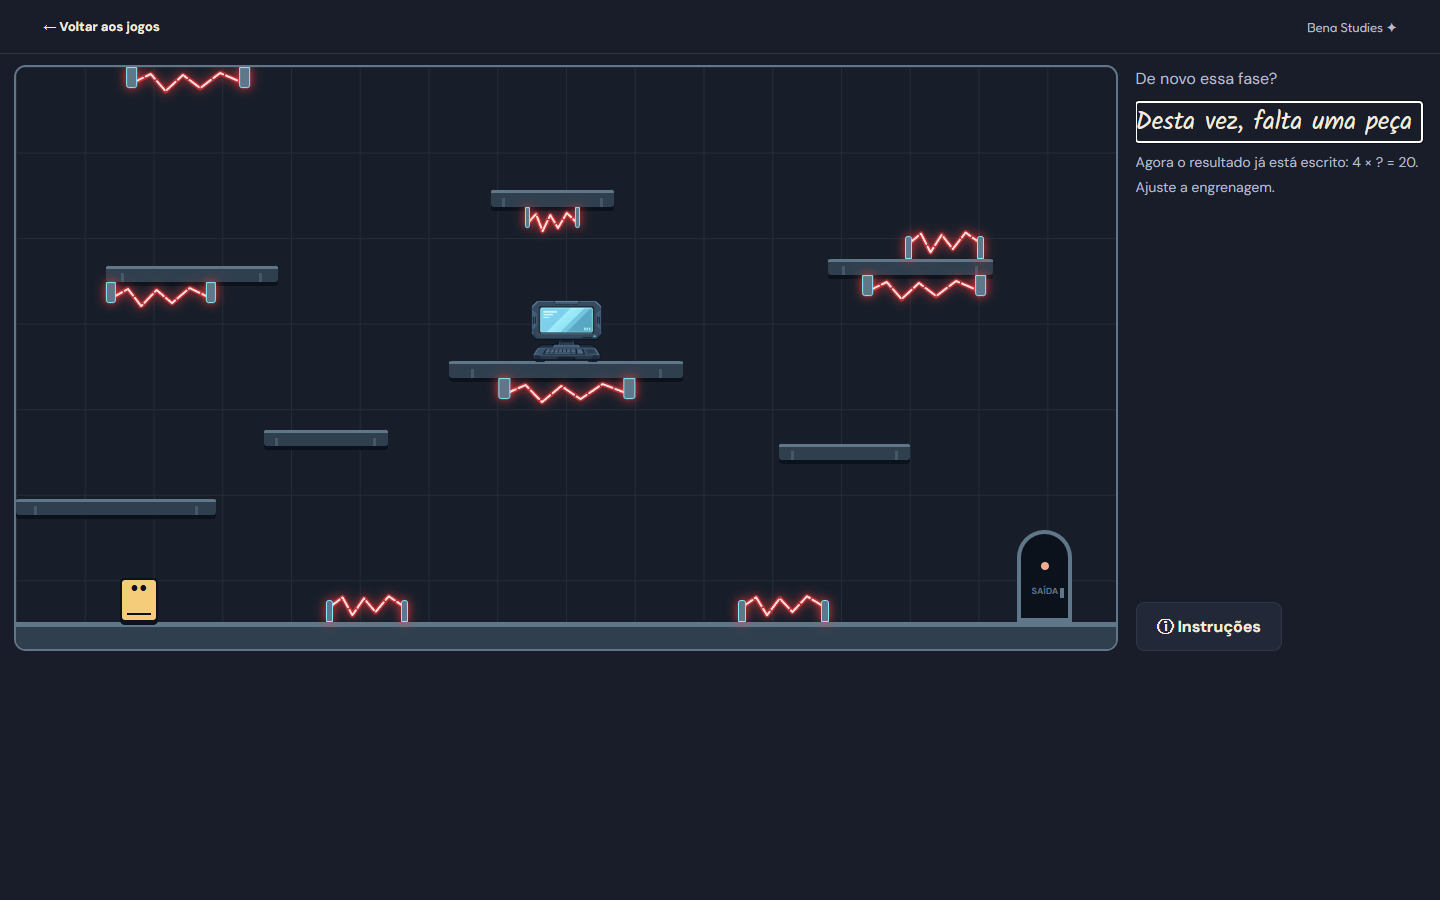
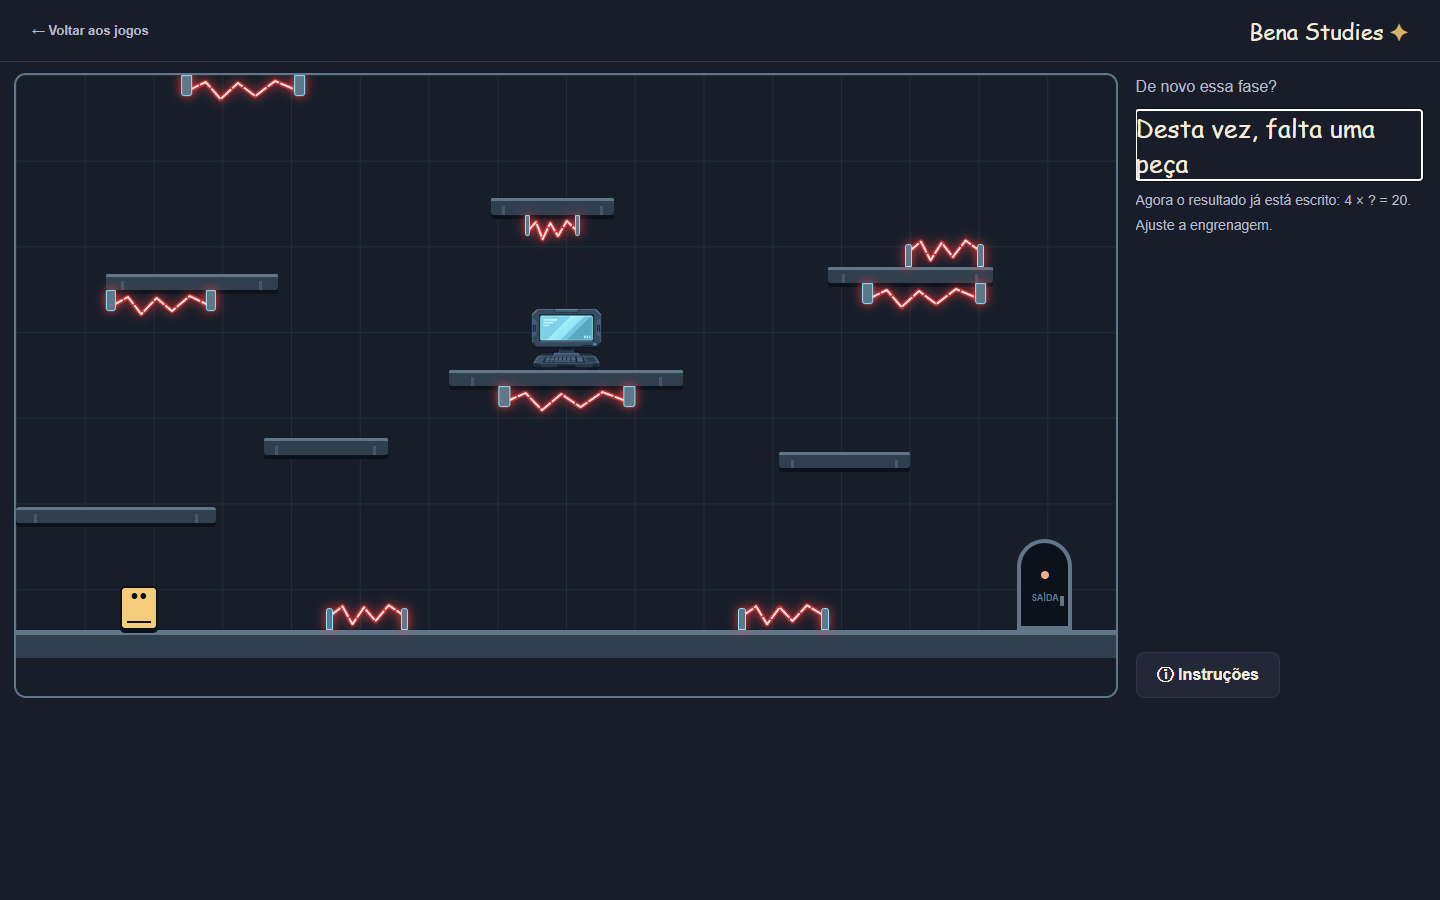
feat: resize electric room viewport

diff --git a/conteudo/3-serie/matematica/tabuada/002/jogo.js b/conteudo/3-serie/matematica/tabuada/002/jogo.js
@@ -53,7 +53,7 @@
       function showRoom() {
         respawnDelay = 0; x = 75; y = 373; vy = 0; grounded = true; target = null; held.clear(); tried = false; solved = false; opened = false; exiting = false;
         const level = levels[phase];
-        container.innerHTML = `<div class="room-layout"><div><div class="room-world" role="group" aria-label="Sala explorável. Use as setas esquerda e direita para andar e a seta para cima para pular. Clique no painel ou chegue à sua frente para abrir seu conteúdo."><div class="room-grid"></div>${roomGeometry()}<button class="room-console" aria-label="Usar o computador"><img class="room-computer" src="../../../../../assets/images/TLA/Desktop.png" alt=""></button><button class="room-door" aria-label="Ir até a porta"><span class="door-lamp"></span><b>SAÍDA</b><i></i></button><div class="room-player" aria-hidden="true"><span class="player-eyes">••</span><span class="player-book"></span></div><div class="room-floor"></div></div></div><section class="room-puzzle"><p class="room-game-title">De novo essa fase?</p><h3 tabindex="-1">${level.title}</h3><p class="room-clue">${level.clue}</p><div class="feedback" role="status" aria-live="polite" aria-atomic="true"></div><div class="room-mechanism"></div><button class="primary room-next" hidden>Atravessar a porta →</button><button class="room-instructions-button" aria-haspopup="dialog">ⓘ Instruções</button></section></div><dialog class="room-instructions" aria-labelledby="instructions-title"><h2 id="instructions-title">Como jogar</h2><ul><li><strong>Sua missão:</strong> resolva os desafios de tabuada para abrir a porta e atravessar as cinco fases. A sala é a mesma, mas a regra muda!</li><li><strong>Ande e pule:</strong> use ← e → para andar e ↑ para pular.</li><li><strong>Explore com um clique:</strong> clique ou toque no painel e na porta para interagir com eles.</li><li><strong>Cuidado com a eletricidade:</strong> pule os arcos vermelhos. Se encostar, o personagem reaparece no início da sala. Suas respostas continuam guardadas e você não perde pontos.</li><li><strong>O painel abre sozinho:</strong> clique nele ou leve o personagem até a sua frente. O conteúdo aparece automaticamente, sem apertar outra tecla.</li></ul><button class="primary instructions-close">Entendi! Vamos jogar →</button></dialog>`;
+        container.innerHTML = `<div class="room-layout"><div><div class="room-world" role="group" aria-label="Sala explorável. Use as setas esquerda e direita para andar e a seta para cima para pular. Clique no painel ou chegue à sua frente para abrir seu conteúdo."><div class="room-scene"><div class="room-grid"></div>${roomGeometry()}<button class="room-console" aria-label="Usar o computador"><img class="room-computer" src="../../../../../assets/images/TLA/Desktop.png" alt=""></button><button class="room-door" aria-label="Ir até a porta"><span class="door-lamp"></span><b>SAÍDA</b><i></i></button><div class="room-player" aria-hidden="true"><span class="player-eyes">••</span><span class="player-book"></span></div><div class="room-floor"></div></div></div></div><section class="room-puzzle"><p class="room-game-title">De novo essa fase?</p><h3 tabindex="-1">${level.title}</h3><p class="room-clue">${level.clue}</p><div class="feedback" role="status" aria-live="polite" aria-atomic="true"></div><div class="room-mechanism"></div><button class="primary room-next" hidden>Atravessar a porta →</button><button class="room-instructions-button" aria-haspopup="dialog">ⓘ Instruções</button></section></div><dialog class="room-instructions" aria-labelledby="instructions-title"><h2 id="instructions-title">Como jogar</h2><ul><li><strong>Sua missão:</strong> resolva os desafios de tabuada para abrir a porta e atravessar as cinco fases. A sala é a mesma, mas a regra muda!</li><li><strong>Ande e pule:</strong> use ← e → para andar e ↑ para pular.</li><li><strong>Explore com um clique:</strong> clique ou toque no painel e na porta para interagir com eles.</li><li><strong>Cuidado com a eletricidade:</strong> pule os arcos vermelhos. Se encostar, o personagem reaparece no início da sala. Suas respostas continuam guardadas e você não perde pontos.</li><li><strong>O painel abre sozinho:</strong> clique nele ou leve o personagem até a sua frente. O conteúdo aparece automaticamente, sem apertar outra tecla.</li></ul><button class="primary instructions-close">Entendi! Vamos jogar →</button></dialog>`;
         container.querySelector('.room-puzzle h3').focus();
         container.querySelector('.room-console').onclick = () => { openPanel(); target = null; };
         container.querySelector('.room-door').onclick = () => { if (solved) beginExit(); else status('A porta ainda está trancada. Resolva o computador primeiro.'); };

diff --git a/conteudo/3-serie/matematica/tabuada/002/estilo.css b/conteudo/3-serie/matematica/tabuada/002/estilo.css
@@ -23,15 +23,22 @@ body.standalone-game{background:var(--paper);min-height:100dvh}
   min-height: 0;
 }
 .room-page .room-layout {
-  grid-template-columns: minmax(0, 1fr) clamp(290px, 18vw, 340px);
-  gap: clamp(16px, 1.2vw, 24px);
+  --room-gap: clamp(16px, 1.2vw, 24px);
+  --room-panel-width: clamp(290px, 18vw, 340px);
+  grid-template-columns: minmax(0, min(calc(100% - var(--room-panel-width) - var(--room-gap)), calc(var(--room-available-height, 75dvh) * 750 / 425))) minmax(var(--room-panel-width), 1fr);
+  gap: var(--room-gap);
 }
 .room-page .room-layout > div { min-width: 0; }
 .room-page .room-world {
-  width: min(100%, calc(var(--room-available-height, 75dvh) * 800 / 425));
-  aspect-ratio: 800 / 425;
-  height: auto;
-  margin-inline: auto;
+  width: 100%;
+  aspect-ratio: 750 / 425;
+  margin: 0;
+}
+.room-page .room-scene {
+  position: relative;
+  width: 100%;
+  height: calc(100% * 750 / 800);
+  overflow: hidden;
 }
 .room-page .room-puzzle {
   max-height: var(--room-available-height, 85dvh);
